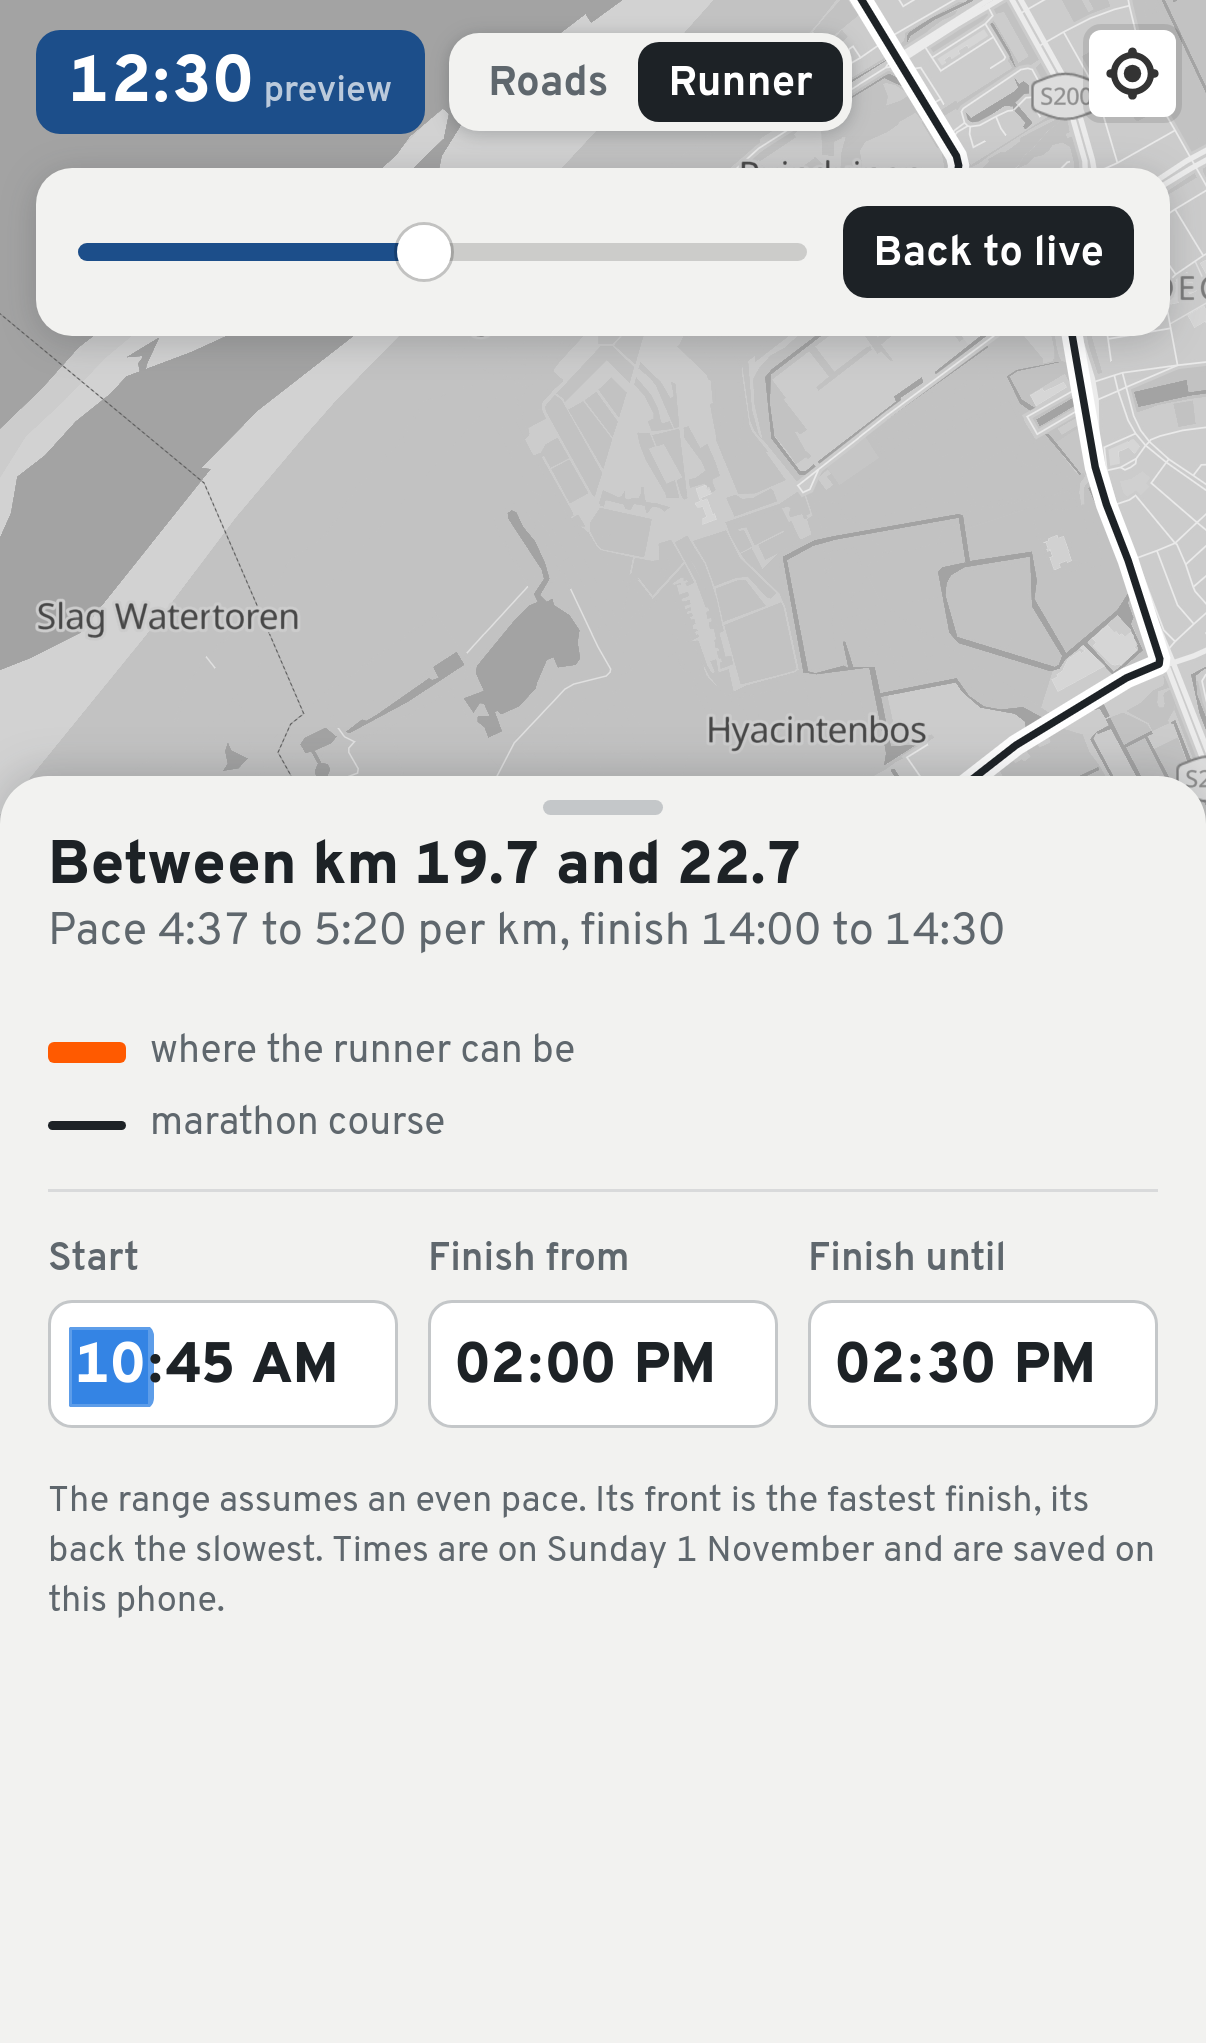
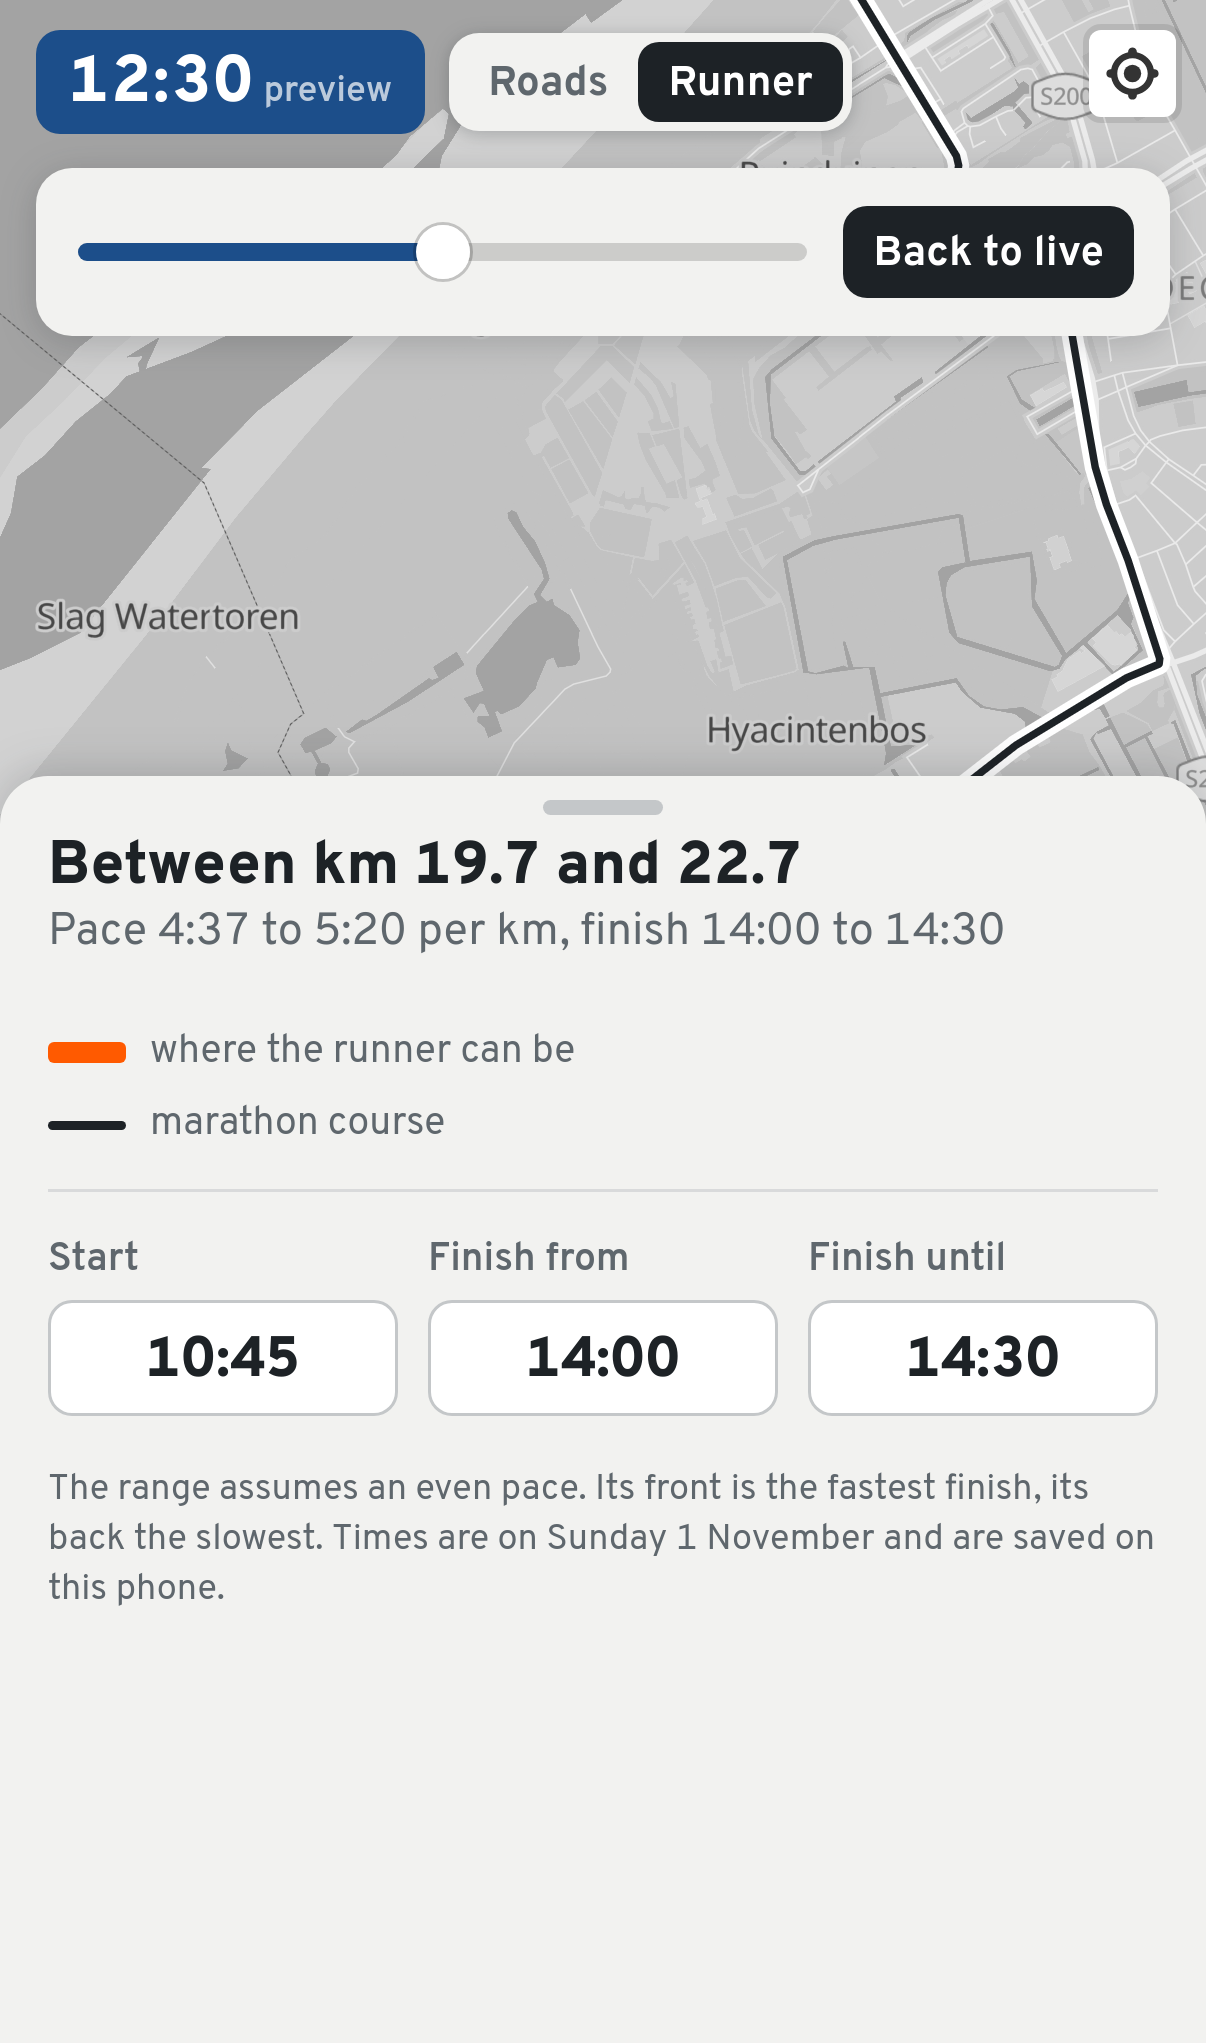
Slider 09:00 to 16:00, runner times always 24h (#15)

Changed region(s): [[0.0307, 0.6476, 0.9511, 0.8018], [0.3682, 0.6476, 0.6136, 0.6784], [0.3375, 0.0925, 0.3988, 0.1542]]

diff --git a/app.js b/app.js
@@ -234,7 +234,14 @@ async function start() {
   for (const b of modeButtons) b.onclick = () => setMode(b.dataset.mode);
 
   const form = document.getElementById('settings');
-  for (const k of ['start', 'from', 'to']) form.elements[k].value = runner[k];
+  // Selects with our own labels, so the times are 24h whatever the phone's locale.
+  const times = [];
+  for (let m = 7 * 60; m <= 18 * 60; m += 5) times.push(`${String(Math.floor(m / 60)).padStart(2, '0')}:${String(m % 60).padStart(2, '0')}`);
+  for (const k of ['start', 'from', 'to']) {
+    const opts = [...new Set([...times, runner[k]])].sort();
+    form.elements[k].innerHTML = opts.map((t) => `<option>${t}</option>`).join('');
+    form.elements[k].value = runner[k];
+  }
   form.oninput = () => {
     if ([...form.elements].some((el) => el.name && !el.value)) return;
     localStorage.setItem('runner', JSON.stringify({ start: form.elements.start.value, from: form.elements.from.value, to: form.elements.to.value }));
@@ -255,7 +262,7 @@ async function start() {
   const clock = document.getElementById('clock');
   const panel = document.getElementById('travel');
   const slider = document.getElementById('slider');
-  const [dayStart, dayEnd] = [Date.parse('2026-11-01T04:00:00+01:00'), Date.parse('2026-11-01T22:00:00+01:00')];
+  const [dayStart, dayEnd] = [Date.parse('2026-11-01T09:00:00+01:00'), Date.parse('2026-11-01T16:00:00+01:00')];
   slider.min = dayStart; slider.max = dayEnd; slider.step = 5 * 60e3;
   const setTravel = (t) => {
     travel = t;

diff --git a/style.css b/style.css
@@ -132,12 +132,12 @@ li.done .streets, li.done .left { color: var(--muted); font-weight: 600; }
 #settings .legend { grid-template-columns: 26px 1fr; }
 .fields { display: grid; grid-template-columns: repeat(3, 1fr); gap: 10px; padding: 14px 0 4px; }
 .fields label { display: grid; gap: 4px; color: var(--muted); font-size: 13px; font-weight: 600; }
-.fields input {
+.fields select {
   width: 100%; min-width: 0; padding: 8px 6px 6px; border: 1px solid #c4c7c9; border-radius: 8px;
   background: #fff; color: var(--ink); font: 800 19px/1.2 Overpass, system-ui, sans-serif; font-variant-numeric: tabular-nums;
-  -webkit-appearance: none; appearance: none; text-align: center;
+  -webkit-appearance: none; appearance: none; text-align: center; text-align-last: center;
 }
-.fields input:focus-visible { outline: 3px solid var(--sign); outline-offset: 1px; }
+.fields select:focus-visible { outline: 3px solid var(--sign); outline-offset: 1px; }
 .note { color: var(--muted); font-size: 12px; max-width: 60ch; }
 
 #update {

diff --git a/index.html b/index.html
@@ -53,9 +53,9 @@
         <span class="course"></span><span>marathon course</span>
       </div>
       <div class="fields">
-        <label>Start<input type="time" name="start" required></label>
-        <label>Finish from<input type="time" name="from" required></label>
-        <label>Finish until<input type="time" name="to" required></label>
+        <label>Start<select name="start"></select></label>
+        <label>Finish from<select name="from"></select></label>
+        <label>Finish until<select name="to"></select></label>
       </div>
       <p class="note">The range assumes an even pace. Its front is the fastest finish, its back the slowest. Times are on Sunday 1 November and are saved on this phone.</p>
     </form>

diff --git a/sw.js b/sw.js
@@ -1,5 +1,5 @@
 // Bump VERSION to ship an update. Every file is cached at install and served from the cache only.
-const VERSION = 'v4';
+const VERSION = 'v5';
 const FONTS = ['Noto Sans Regular', 'Noto Sans Medium', 'Noto Sans Italic'].flatMap((f) =>
   ['0-255', '256-511', '8192-8447'].map((r) => `map/fonts/${f}/${r}.pbf`));
 const FILES = [

diff --git a/README.md b/README.md
@@ -7,7 +7,7 @@ Live: https://djosh34.github.io/marathon_den_haag_tracker_2026/
 - Closure times come from the official closure map on the [travel info page](https://nnmarathonthehague.nl/en/travel-info/). The course GPX files come from the [course page](https://nnmarathonthehague.nl/en/course/). The times are indicative.
 - `tools/build_data.py` builds `data.js` from the GPX files and the closure list.
 - Map tiles: a Protomaps extract (`map/hague.pmtiles`, zoom 0–14).
-- Tap the clock to look at another time of race day with a slider. "Back to live" returns to now.
+- Tap the clock to look at another time of race day (09:00 to 16:00) with a slider. "Back to live" returns to now.
 - The Roads | Runner switch next to the clock changes the view. Runner hides the closures and shows, in orange, where a runner can be at the shown time, with km markers (every 10, every 2.5 when zoomed in). The start time and finish window are set in the sheet (default 10:15, finishing 14:00 to 14:30) and saved on the phone.
 - To ship a change, bump `VERSION` in `sw.js`. Open phones get a "tap to update" banner.
 
